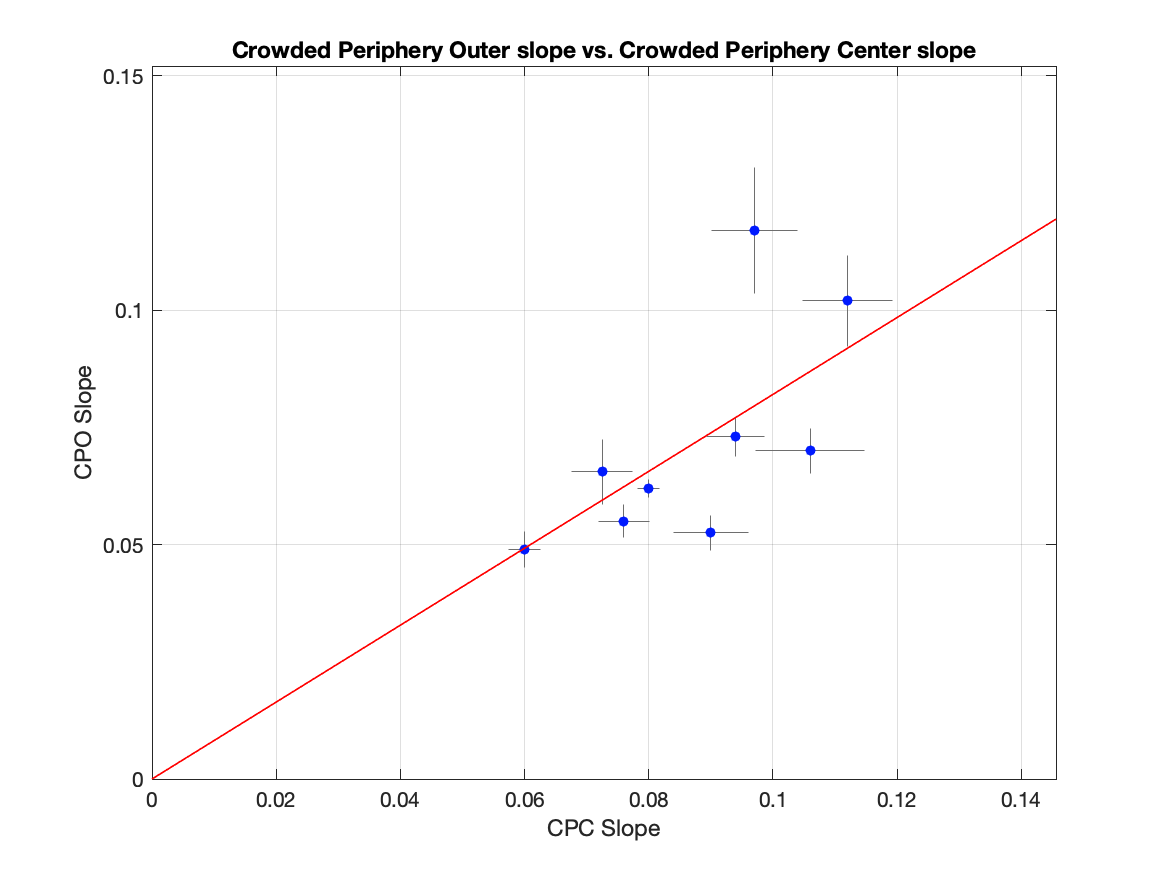
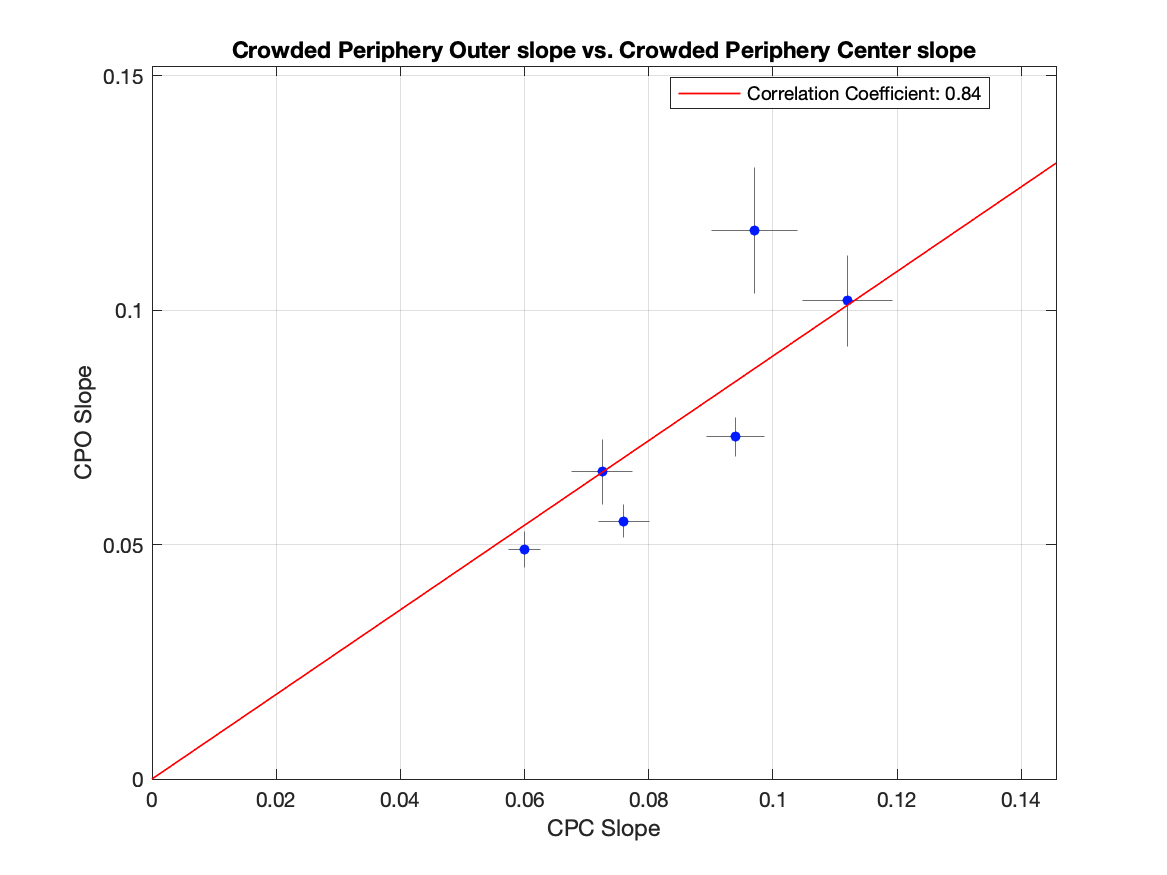
Added correlation coefficient to legend, added instructions

diff --git a/Analysis/correlationAnalysis.m b/Analysis/correlationAnalysis.m
@@ -14,13 +14,15 @@ addpath(functionPath);
 
 close all; 
 
+folderName = fullfile(pwd, 'Analysis_Results', 'Correlation_Analysis'); 
+mkdir(folderName);
+
 dataAnswer = questdlg('Add subject names?', '', 'Yes', 'No', 'Cancel', 'Yes');
 graphNames = (char(dataAnswer(1)) == 'Y');
 
 dotColor = [0 0.1 1];
 
 table = readCsv('Compiled', false);
-table = table2array(table);
 
 t1 = figure();
 cp = figure();
@@ -43,8 +45,10 @@ for i = 2:size(table,1)
     currErrors = [];
 
     for j = 1:7
-        currParams(j) = str2double(table{i,(((j-1)*4)+5)});
-        currErrors(j) = str2double(table{i,(((j-1)*4)+7)});
+        avgIndex = ((j-1)*4)+5;
+        errIndex = ((j-1)*4)+7;
+        currParams(j) = table{i,avgIndex};
+        currErrors(j) = table{i,errIndex};
     end
     
     currParams(isnan(currParams)) = 0;
@@ -63,41 +67,6 @@ for i = 2:size(table,1)
         errors(index,:) = (errors(index,:) + currErrors)./div;
     end
 end
-
-figures = [t1,cp,cpo,cc9,cc3,cp9,cc39,cpocp];
-
-yIndex = [1, 2, 3, 4, 5, 7, 4, 3];
-xIndex = [6, 6, 6, 6, 6, 6, 5, 2];
-
-for j = 1:length(figures)
-    
-    xI = xIndex(j);
-    yI = yIndex(j);
-    
-    for i = 1:size(params,1)
-        if((params(i,yI) ~= 0) && (params(i,xI) ~= 0))
-            
-            figure(figures(j));
-            hold on;
-            errorbar(params(i,xI), params(i,yI), errors(i,xI), ...
-                'horizontal','.', 'HandleVisibility', 'off', ...
-                'Color', [0.43 0.43 0.43], 'CapSize', 0);
-            
-            errorbar(params(i,xI), params(i,yI), errors(i,yI), ...
-                'vertical','.', 'HandleVisibility', 'off', ...
-                'Color', [0.43 0.43 0.43], 'CapSize', 0);
-            
-            scatter(params(i,xI), params(i,yI), 25, dotColor, ...
-                "filled", 'HandleVisibility', 'off');
-            
-            if graphNames
-                text((params(i,xI)*1.01), (params(i,yI)*1.01), names(i), 'FontSize', 8);
-            end
-
-        end
-    end
-end
-
 
 titles = ["T1 slope vs. IC slope", ...
     "Crowded Periphery Center slope vs. IC slope", ...
@@ -127,32 +96,82 @@ xLabels = ["IC slope", ...
 filenames = [ "T1vsIC", "CPCvsIC", "CPOvsIC", "CC9x9vsIC", "CC3x3vsIC", ...
     "CP9x9vsIC", "CC9x9vsCC3x3", "CPOvsCPC"];
 
-params(params == 0) = NaN;
-for i = 1:length(figures)
-    figure(figures(i));
-    xlim([0, (max(params(:,xIndex(i)))*1.3)]);
-    ylim([0 (max(params(:,yIndex(i)))*1.3)]);
-    title(titles(i));
-    xlabel(xLabels(i));
-    ylabel(yLabels(i));
-    grid on;
-    box on;
-    
-    yavg = nanmean(params(:,yIndex(i)));
-    xavg = nanmean(params(:,xIndex(i)));
-    
-    slope = yavg/xavg;
+figs = [t1,cp,cpo,cc9,cc3,cp9,cc39,cpocp];
 
-    xvals = linspace(0,(max(params(:,xIndex(i)))*2));
-    yvals = xvals.*slope;
+txt = 'Correlation Coefficient: %4.2f';
 
-    plot(xvals,yvals,'Color', [1 0 0], 'LineWidth', 0.8, 'HandleVisibility', ...
-        'off');
+yIndex = [1, 2, 3, 4, 5, 7, 4, 3];
+xIndex = [6, 6, 6, 6, 6, 6, 5, 2];
+
+for j = 1:length(figs)
     
-    folderName = fullfile(pwd, 'Analysis_Results', 'Correlation_Analysis'); 
-    mkdir(folderName);
-    fileName = sprintf('%s%s', filenames(i), '.png');
-    saveas(figures(i), fullfile(folderName, fileName));
+    xI = xIndex(j);
+    yI = yIndex(j);
+
+    x = [];
+    y = [];
+    xe = [];
+    ye = [];
+    n = [];
+    
+    for i = 1:size(params,1)
+        if((params(i,yI) ~= 0) && (params(i,xI) ~= 0))
+
+            x = [x params(i,xI)];
+            y = [y params(i,yI)];
+            xe = [xe errors(i,xI)];
+            ye = [ye errors(i,yI)];
+            n = [n names(i)];
+            
+            figure(figs(j));
+            hold on;
+            errorbar(params(i,xI), params(i,yI), errors(i,xI), ...
+                'horizontal','.', 'HandleVisibility', 'off', ...
+                'Color', [0.43 0.43 0.43], 'CapSize', 0);
+            
+            errorbar(params(i,xI), params(i,yI), errors(i,yI), ...
+                'vertical','.', 'HandleVisibility', 'off', ...
+                'Color', [0.43 0.43 0.43], 'CapSize', 0);
+            
+            scatter(params(i,xI), params(i,yI), 25, dotColor, ...
+                "filled", 'HandleVisibility', 'off');
+            
+            if graphNames
+                text((params(i,xI)*1.01), (params(i,yI)*1.01), names(i), 'FontSize', 8);
+            end
+
+        end
+    end
+    if length(x) > 0
+        errorbar(x, y, xe, 'horizontal','.', 'HandleVisibility', 'off', ...
+            'Color', [0.43 0.43 0.43], 'CapSize', 0);
+        errorbar(x, y, ye, 'vertical','.', 'HandleVisibility', 'off', ...
+            'Color', [0.43 0.43 0.43], 'CapSize', 0);
+        scatter(x, y, 25, dotColor, "filled", 'HandleVisibility', 'off');
+
+        if graphNames
+            text((x.*1.01), (y.*1.01), n, 'FontSize', 8);
+        end
+
+        R = corr2(x,y);
+
+        xavg = mean(x);
+        yavg = mean(y);
+
+        slope = yavg/xavg;
+
+        xvals = linspace(0,(max(x)*2));
+        yvals = xvals.*slope;
+
+        plot(xvals,yvals,'Color', [1 0 0], 'LineWidth', 0.8, 'DisplayName', ...
+            sprintf(txt,R));
+
+        formatFigure(figs(j), [0 max(x)*1.3], [0 max(y)*1.3], xLabels(j), ...
+            yLabels(j), titles(j), false);
+
+        fileName = sprintf('%s%s', filenames(j), '.png');
+        saveas(figs(j), fullfile(folderName, fileName));
+    end
 end
 
 uiwait(helpdlg("Click OK to finish and close figures"));
